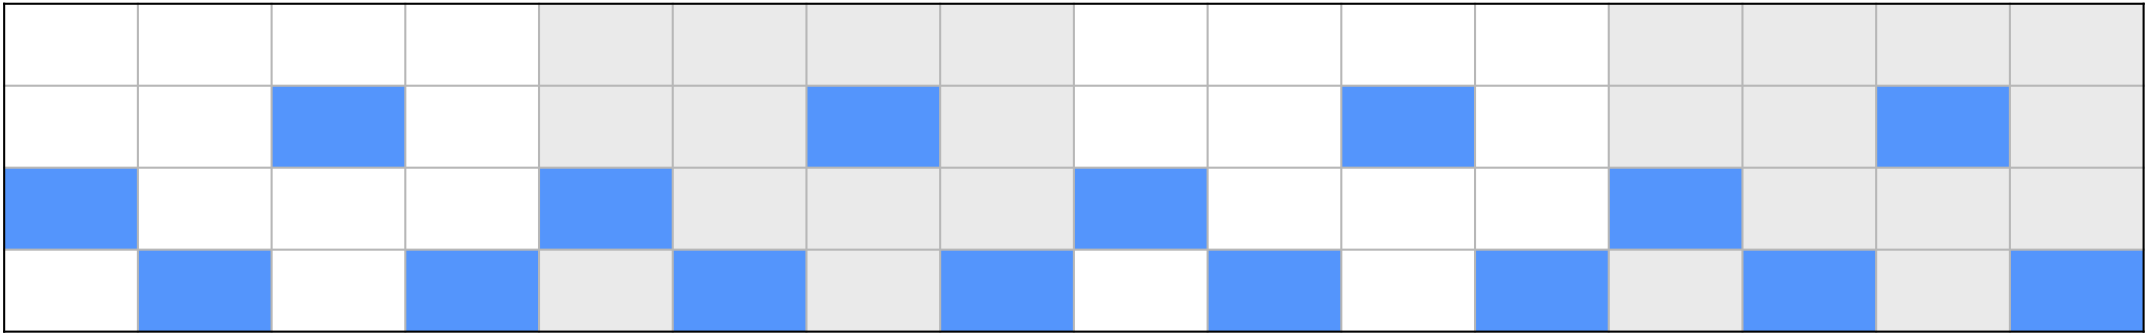
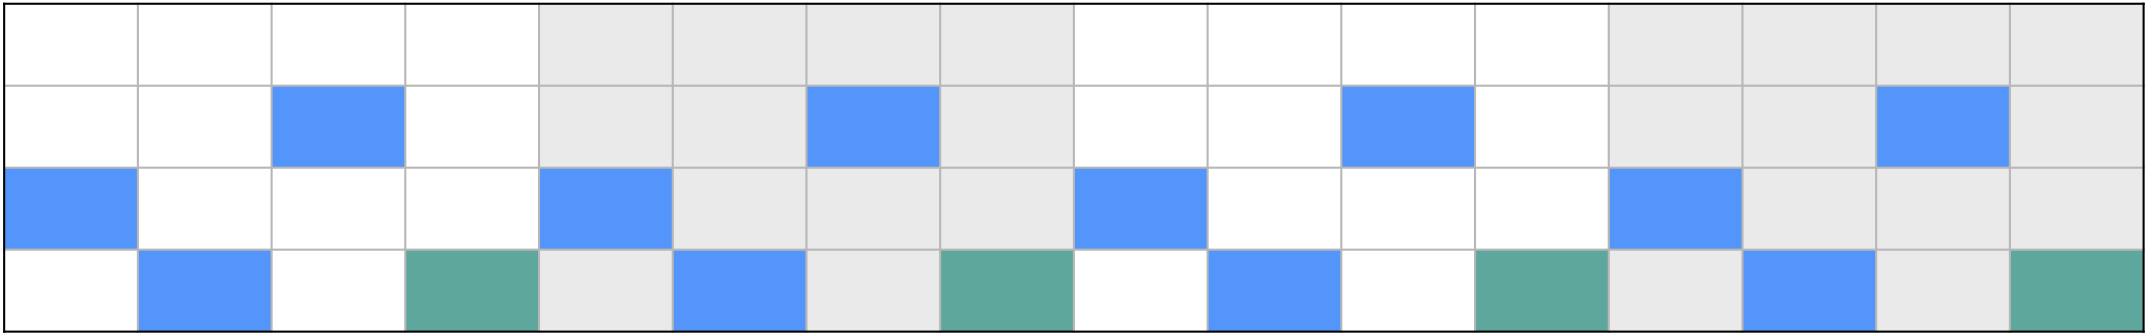
Logic arpeggiator draft images

diff --git a/assets/default.css b/assets/default.css
@@ -85,3 +85,8 @@ li.toc-h2 a {
   color: #727272;
   text-decoration: none;
 }
+
+img {
+  padding-top: 1rem;
+  padding-bottom: 1rem;
+}

diff --git a/_drafts/logic-pro-arpeggiator.md b/_drafts/logic-pro-arpeggiator.md
@@ -7,24 +7,105 @@ url: /logic-arpeggiator/
 categories: [Logic, Music]
 ---
 
-Teste
+Logic Pro has a powerful arpeggiator that sometimes is overlooked. Logic's
+documentation is great, with thosands of pages of information freely available.
+Unfortunately, the documentation on the arpeggiator can be hard to understand
+due to lack of examples, cryptic language, and even some mistakes. In this
+article we will look into some patters we can generate with the arpeggiator.
 
-{% img ui-controls.png 40% %}
+In this article I'll only focus on the pre-determined note orders and the four
+variations, octave range and octaving mode. However, arpeggiator is capable of
+having more complex, user-defined patterns.
+
+As you know, we can select a note order by clicking in one of the six buttons in
+the section "Note Order".
 
 {% img ui-note-order.png 70% %}
 
+We can also select one of four variations and one if four
+
 | {% img ui-oct-range.png 286 %} | {% img ui-inversions.png 250 %} |
 
-Inversion 1
+The label "Inversions" can be misleading. It's actually a variation of the
+octave range. In fact, it's labeled "Octaving Mode" when switching the interface
+from editor to controls:
 
-| Var | 3 Notes                          | 4 Notes                          |
-|-----|----------------------------------|----------------------------------|
-| 1   | {% img pattern3-var1-inv1.png %} | {% img pattern4-var1-inv1.png %} |
-| 2   | {% img pattern3-var2-inv1.png %} | {% img pattern4-var2-inv1.png %} |
-| 3   | {% img pattern3-var3-inv1.png %} | {% img pattern4-var3-inv1.png %} |
-| 4   | {% img pattern3-var4-inv1.png %} | {% img pattern4-var4-inv1.png %} |
+{% img ui-controls.png 40% %}
+
+we can select a octave range and a octaving mode: either "Octaves" or
+"Inversions". Maybe it's me, but I find confusing in the editor interface but
+clear on the controls interface:
+
+| {% img ui-controls-octave1.png 90% %} | {% img ui-controls-octave2.png 90% %} |
+
+
+## Arpeggios
+
+An arpeggio is a broken chord, where the notes of the chord are played in
+sequence rather than at the same time. Paganini's first caprice is basically
+composed of arpeggios:
+
+<iframe width="560" height="315" src="https://www.youtube.com/embed/8ftpFfmW2nE" title="YouTube video player" frameborder="0" allow="accelerometer; autoplay; clipboard-write; encrypted-media; gyroscope; picture-in-picture" allowfullscreen></iframe>
+
+An arpeggiator generates musical patters given one or more notes. The most
+common use of an arpeggiator is to create arpeggios, hence the name
+_arpeggiator_. For instance, we can write the chords for Paganini's first
+caprice:
+
+{% img paganini1.png 50% %}
+
+And the arpeggiator will generate automatically the required sequence to make it
+sound like the original:
+
+{% img paganini2.png 50% %}
+
+The advantage of using an arpeggiator instead of writing the notes manually
+
+## Variations
+
+When the octave range is 1 we have no change of octave and the variations are
+straighforward:
+
+| Var | Pattern           | 3 Notes                          | 4 Notes                          |
+|-----|-------------------|----------------------------------|----------------------------------|
+| 1   | [1,2,3] [1,2,3,4] | {% img pattern3-var1-inv1.png %} | {% img pattern4-var1-inv1.png %} |
+| 2   | [2,1,3,4] **(1)** | {% img pattern3-var2-inv1.png %} | {% img pattern4-var2-inv1.png %} |
+| 3   | [3,1,2,4] **(1)** | {% img pattern3-var3-inv1.png %} | {% img pattern4-var3-inv1.png %} |
+| 4   | [1,3,2] **(2)**   | {% img pattern3-var4-inv1.png %} | {% img pattern4-var4-inv1.png %} |
 {: .table .table-sm .table-border }
 
+**(1)** This is a fixed four-note pattern, it'll always have four notes even if
+the chord has less than four notes. The [manual] says "If there are fewer than
+four notes, the steps without an assigned key are skipped. Once all keys are
+played, the arpeggio restarts with the lowest note." But it's hard to understand
+what it means to skip a note in this context. The "skipped" notes are in green
+in the examples. It seems it will add a note from the chord for each skipped
+note in order.
+
+| Variation 2 (2 notes)            | Variation 3 (2 notes)            |
+|----------------------------------|----------------------------------|
+| {% img pattern2-var2-inv1.png %} | {% img pattern2-var3-inv1.png %} |
+
+[manual]: https://support.apple.com/guide/logicpro/note-order-variations-lgce2a5ad7b7/10.7/mac/11.0
+
+**(2)** This is a fixed three-note pattern. The [manual] says "this variation,
+which consists of three steps, plays up and overlaps; all pressed keys are
+divided into groups of three with the note order applied to all groups. If there
+are fewer than three notes, the steps without an assigned key are skipped. Once
+all keys are played, the arpeggio restarts with the lowest note." But what
+"overlaps" means in this context? Why does it become a six-note pattern when the
+chord has four notes?
+
+pattern5 and pattern6 are the same
+
+| {% img pattern5-var4-inv1.png %} | {% img pattern7-var4-inv1.png %} |
+
+
+3 - 3
+4 - 6
+5 - 6
+6 - 6
+7 - 9
 
 Variation 1, Inversions
 
